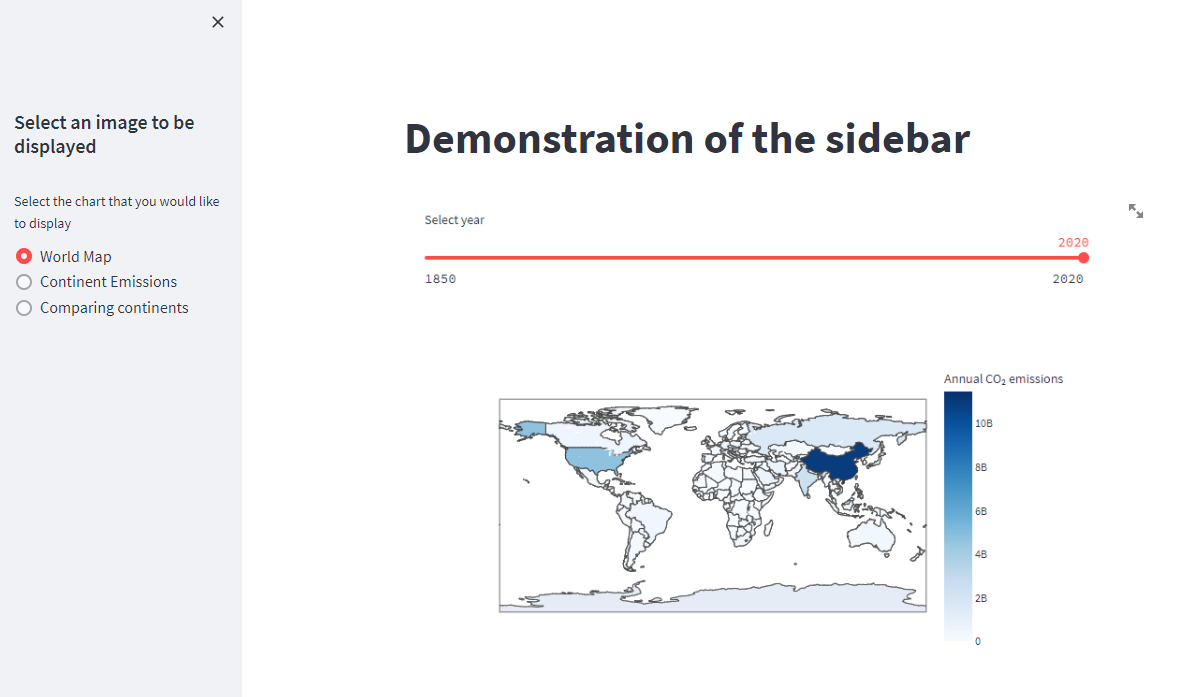
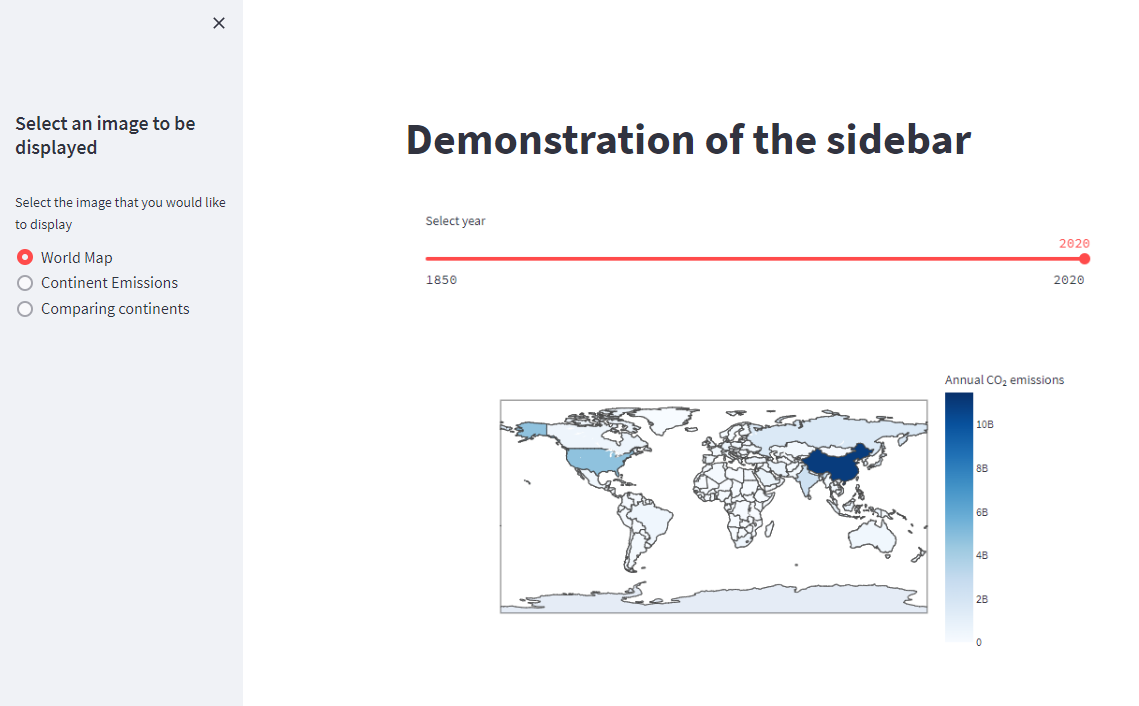
update

diff --git a/code/ui2.py b/code/ui2.py
@@ -5,7 +5,7 @@ st.title('Demonstration of the sidebar')
 with st.sidebar:
     st.header('Select an image to be displayed')
     chart = st.radio(
-    "Select the chart that you would like to display",
+    "Select the image that you would like to display",
     ('World Map', 'Continent Emissions', 'Comparing continents'))
 
 if chart == 'World Map': 

diff --git a/StreamlitFromScratch4.md b/StreamlitFromScratch4.md
@@ -239,19 +239,23 @@ Both of these examples work in the same way and produce the same results. Using 
 
 One of the first layout components that featured in Streamlit was the sidebar. This allowed you to group user input controls in an area to the side of the screen and display the rest of the app in the main window.
 
-Here is a simple illustration of how it can be used.
+Here is a simple illustration of how it can be used. The sidebar contains three radio buttons that let you select one of three images to be displayed in the main window. 
 
 ```` Python
 import streamlit as st
 
+# The title will be displayed at the top of the main window
 st.title('Demonstration of the sidebar')
 
+# Everything in the 'with' block will be in the sidebar
 with st.sidebar:
     st.header('Select an image to be displayed')
     chart = st.radio(
-    "Select the chart that you would like to display",
+    "Select the image that you would like to display",
     ('World Map', 'Continent Emissions', 'Comparing continents'))
 
+# The following is outside of the 'with' block and so will 
+# execute in the main window
 if chart == 'World Map': 
     st.image('../images/choropleth.png')
 
@@ -264,6 +268,14 @@ if chart == 'Comparing continents':
 And this is what it looks like.
 
 ![](https://github.com/alanjones2/streamlitfromscratch/raw/main/images/sidebar_example.png)
+
+As you can see this is a very conventional layout - simple and effective. Note that the sidebar can be closed with the _x_ in the top right corner. It can, of course be re-opened.
+
+
+
+
+
+
 
 
 ---
